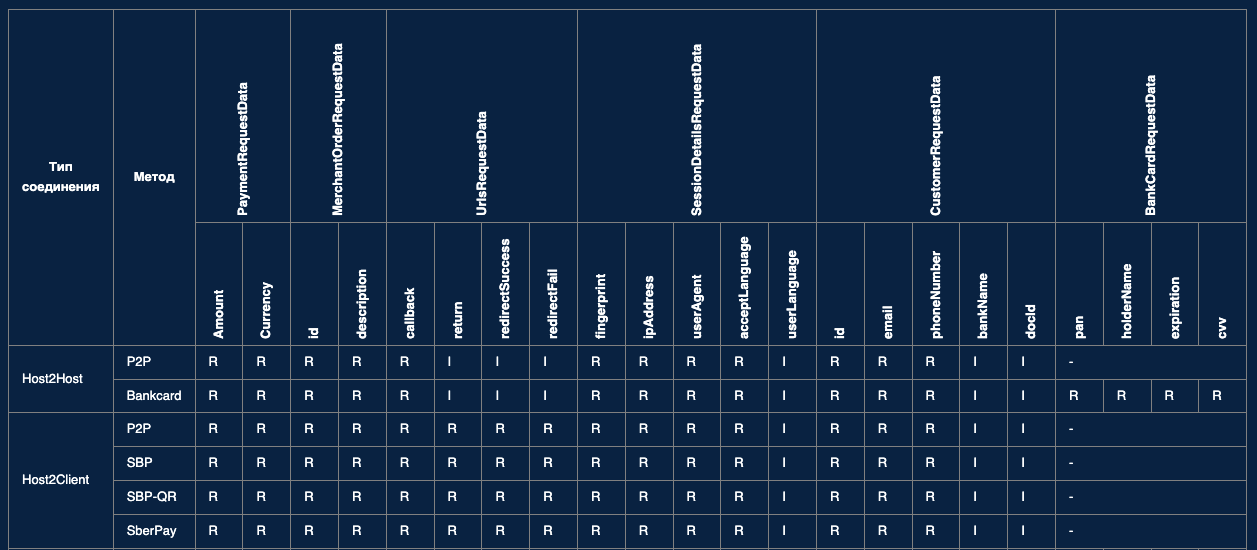
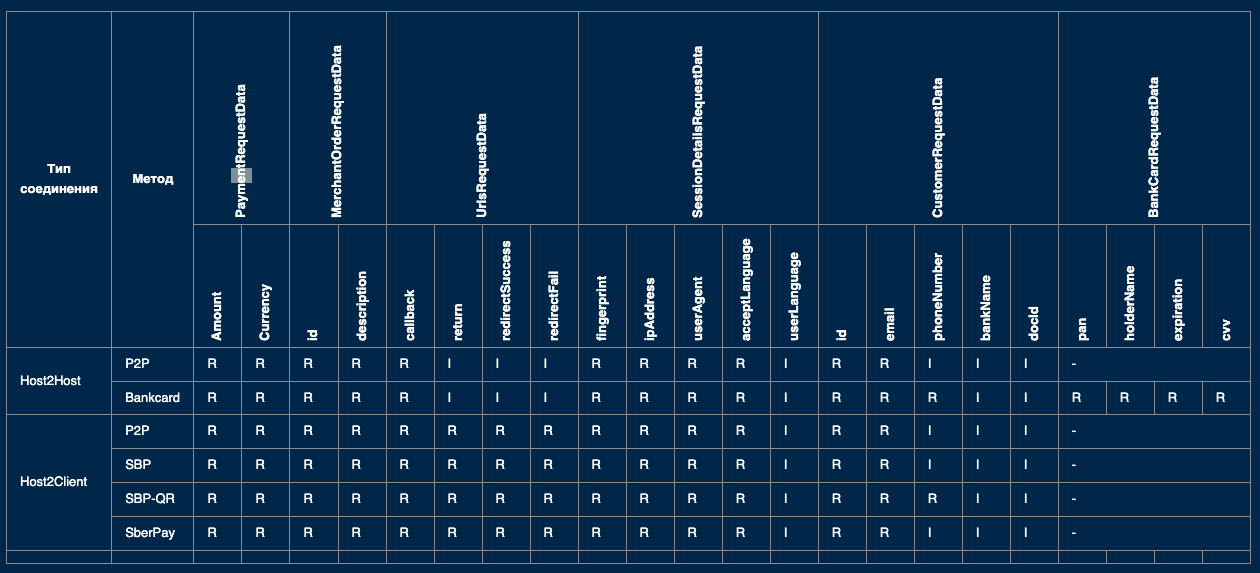
в readme изменены таблицы для атрибутов универсалных методов

diff --git a/README.md b/README.md
@@ -308,7 +308,7 @@ $createdResult = $billing->createUniversalDeposit($depositDTO);
     <td style="border: 1px solid grey;">I</td>
     <td style="border: 1px solid grey;">R</td>
     <td style="border: 1px solid grey;">R</td>
-    <td style="border: 1px solid grey;">R</td>
+    <td style="border: 1px solid grey;">I</td>
     <td style="border: 1px solid grey;">I</td>
     <td style="border: 1px solid grey;">I</td>
     <td style="border: 1px solid grey;" colspan="4">-</td>
@@ -356,7 +356,7 @@ $createdResult = $billing->createUniversalDeposit($depositDTO);
     <td style="border: 1px solid grey;">I</td>
     <td style="border: 1px solid grey;">R</td>
     <td style="border: 1px solid grey;">R</td>
-    <td style="border: 1px solid grey;">R</td>
+    <td style="border: 1px solid grey;">I</td>
     <td style="border: 1px solid grey;">I</td>
     <td style="border: 1px solid grey;">I</td>
     <td style="border: 1px solid grey;" colspan="4">-</td>
@@ -378,7 +378,7 @@ $createdResult = $billing->createUniversalDeposit($depositDTO);
     <td style="border: 1px solid grey;">I</td>
     <td style="border: 1px solid grey;">R</td>
     <td style="border: 1px solid grey;">R</td>
-    <td style="border: 1px solid grey;">R</td>
+    <td style="border: 1px solid grey;">I</td>
     <td style="border: 1px solid grey;">I</td>
     <td style="border: 1px solid grey;">I</td>
     <td style="border: 1px solid grey;" colspan="4">-</td>
@@ -422,7 +422,7 @@ $createdResult = $billing->createUniversalDeposit($depositDTO);
     <td style="border: 1px solid grey;">I</td>
     <td style="border: 1px solid grey;">R</td>
     <td style="border: 1px solid grey;">R</td>
-    <td style="border: 1px solid grey;">R</td>
+    <td style="border: 1px solid grey;">I</td>
     <td style="border: 1px solid grey;">I</td>
     <td style="border: 1px solid grey;">I</td>
     <td style="border: 1px solid grey;" colspan="4">-</td>
@@ -1174,7 +1174,7 @@ $createdResult = $billing->createUniversalWithdrawal($withdrawalDTO);
     <td style="border: 1px solid grey;">I</td>
     <td style="border: 1px solid grey;">R</td>
     <td style="border: 1px solid grey;">R</td>
-    <td style="border: 1px solid grey;">R</td>
+    <td style="border: 1px solid grey;">I</td>
     <td style="border: 1px solid grey;">I</td>
     <td style="border: 1px solid grey;">I</td>
     <td style="border: 1px solid grey;">R</td>
@@ -1199,7 +1199,7 @@ $createdResult = $billing->createUniversalWithdrawal($withdrawalDTO);
     <td style="border: 1px solid grey;">I</td>
     <td style="border: 1px solid grey;">R</td>
     <td style="border: 1px solid grey;">R</td>
-    <td style="border: 1px solid grey;">R</td>
+    <td style="border: 1px solid grey;">I</td>
     <td style="border: 1px solid grey;">I</td>
     <td style="border: 1px solid grey;">I</td>
     <td style="border: 1px solid grey;">R</td>
